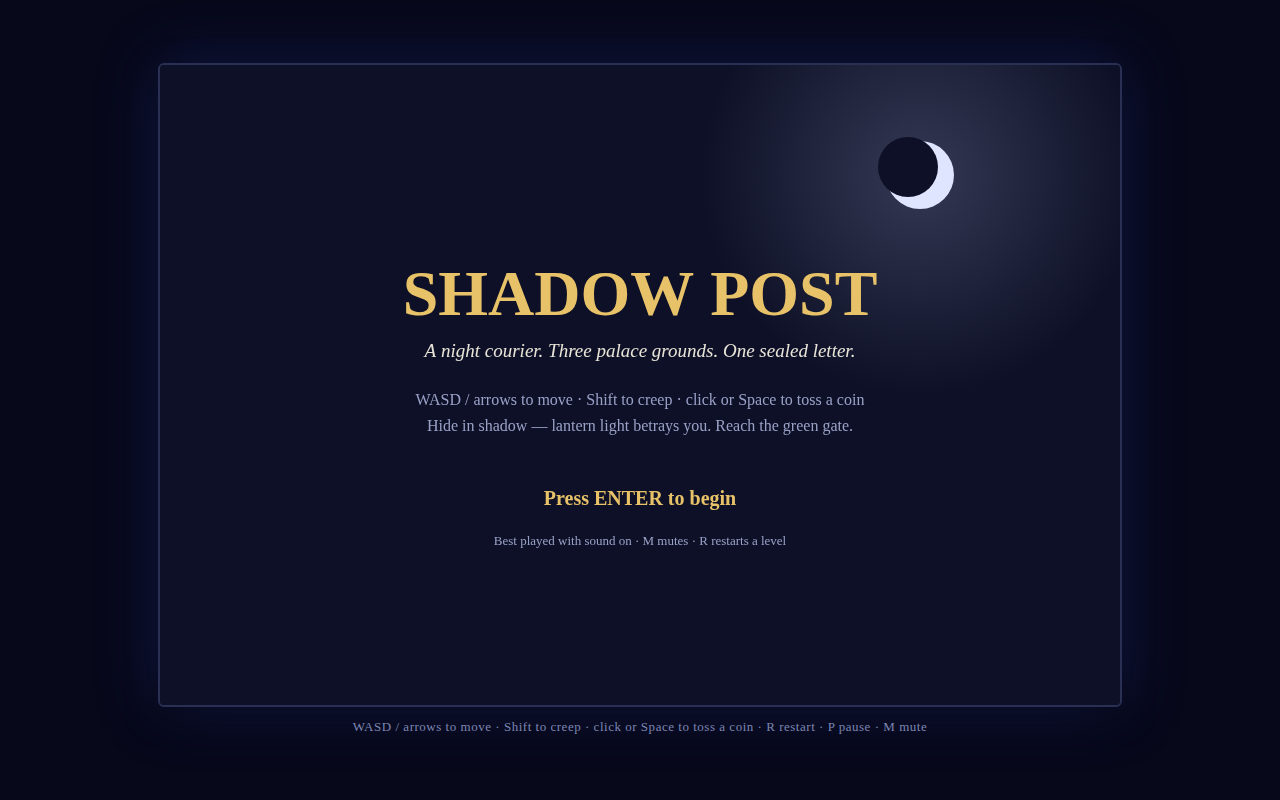
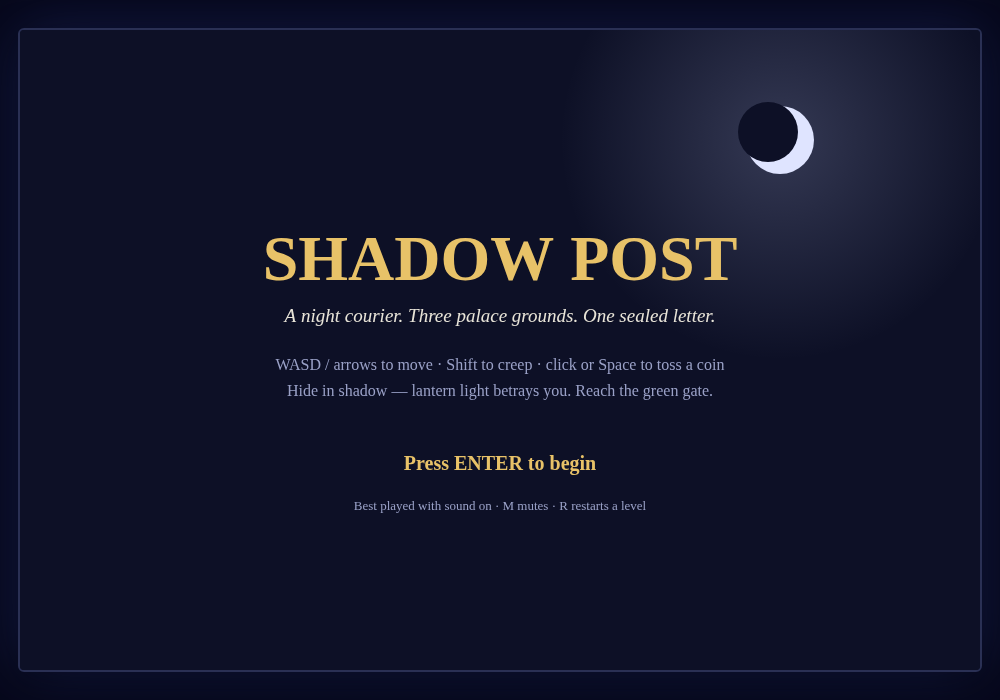
Gemini critique fixes: hedge auto-tiling, brighter cones, visible gate, aimed alert cones, coin ripple, tighter screenshot framing

diff --git a/game/src/render.js b/game/src/render.js
@@ -55,6 +55,11 @@ export class Renderer {
 
   drawBlockers(level) {
     const { ctx } = this;
+    // Hedge tiles connect into continuous strips: remember which tiles
+    // are hedges so only exposed edges get a border.
+    const hedgeAt = new Set(
+      level.blockers.filter((b) => b.kind === 'hedge').map((b) => `${b.x / TILE},${b.y / TILE}`),
+    );
     for (const b of level.blockers) {
       if (b.kind === 'wall') {
         ctx.fillStyle = PALETTE.wall;
@@ -64,18 +69,35 @@ export class Renderer {
         ctx.strokeStyle = 'rgba(10, 12, 30, 0.6)';
         ctx.strokeRect(b.x + 0.5, b.y + 0.5, b.w - 1, b.h - 1);
       } else if (b.kind === 'hedge') {
+        // One continuous bush: full tile, no gaps between neighbours,
+        // leaf clusters seeded by the tile so the pattern never repeats
+        // identically from tile to tile.
         ctx.fillStyle = PALETTE.hedge;
-        roundRect(ctx, b.x + 2, b.y + 2, b.w - 4, b.h - 4, 9);
-        ctx.fill();
+        ctx.fillRect(b.x, b.y, b.w, b.h);
+        const tx = b.x / TILE;
+        const ty = b.y / TILE;
+        const seed = (tx * 31 + ty * 17) % 7;
         ctx.fillStyle = PALETTE.hedgeTop;
-        // Leafy dots so a hedge reads as a hedge, not a wall.
-        for (let i = 0; i < 5; i++) {
-          const lx = b.x + 7 + ((i * 7) % 26);
-          const ly = b.y + 8 + ((i * 11) % 24);
+        for (let i = 0; i < 6; i++) {
+          const lx = b.x + 6 + ((i * 11 + seed * 5) % 28);
+          const ly = b.y + 6 + ((i * 7 + seed * 3) % 28);
           ctx.beginPath();
-          ctx.arc(lx, ly, 3.2, 0, Math.PI * 2);
+          ctx.arc(lx, ly, 3.4 + ((i + seed) % 3), 0, Math.PI * 2);
           ctx.fill();
         }
+        ctx.fillStyle = 'rgba(0, 0, 0, 0.25)';
+        ctx.beginPath();
+        ctx.arc(b.x + 10 + seed * 3, b.y + 26, 4, 0, Math.PI * 2);
+        ctx.fill();
+        // Border only where a neighbour is not a hedge.
+        ctx.strokeStyle = 'rgba(8, 20, 12, 0.8)';
+        ctx.lineWidth = 1.5;
+        ctx.beginPath();
+        if (!hedgeAt.has(`${tx},${ty - 1}`)) { ctx.moveTo(b.x, b.y + 0.75); ctx.lineTo(b.x + b.w, b.y + 0.75); }
+        if (!hedgeAt.has(`${tx},${ty + 1}`)) { ctx.moveTo(b.x, b.y + b.h - 0.75); ctx.lineTo(b.x + b.w, b.y + b.h - 0.75); }
+        if (!hedgeAt.has(`${tx - 1},${ty}`)) { ctx.moveTo(b.x + 0.75, b.y); ctx.lineTo(b.x + 0.75, b.y + b.h); }
+        if (!hedgeAt.has(`${tx + 1},${ty}`)) { ctx.moveTo(b.x + b.w - 0.75, b.y); ctx.lineTo(b.x + b.w - 0.75, b.y + b.h); }
+        ctx.stroke();
       } else if (b.kind === 'crate') {
         ctx.fillStyle = PALETTE.crate;
         ctx.fillRect(b.x + 3, b.y + 3, b.w - 6, b.h - 6);
@@ -118,21 +140,42 @@ export class Renderer {
 
   drawExit(exit, pulse) {
     const { ctx } = this;
-    const glow = 46 + Math.sin(pulse * 2.4) * 6;
-    const g = ctx.createRadialGradient(exit.x, exit.y, 4, exit.x, exit.y, glow + 30);
-    g.addColorStop(0, 'rgba(127, 224, 168, 0.40)');
+    const glow = 52 + Math.sin(pulse * 2.4) * 6;
+    // Emerald light spill onto the tiles in front of the gate, so the
+    // goal reads as a beacon from across the level.
+    const g = ctx.createRadialGradient(exit.x, exit.y, 4, exit.x, exit.y, glow + 46);
+    g.addColorStop(0, 'rgba(127, 224, 168, 0.42)');
+    g.addColorStop(0.5, 'rgba(127, 224, 168, 0.14)');
     g.addColorStop(1, 'rgba(127, 224, 168, 0)');
     ctx.fillStyle = g;
-    ctx.fillRect(exit.x - glow - 30, exit.y - glow - 30, (glow + 30) * 2, (glow + 30) * 2);
-    // A green gate arch with a lit doorway.
-    ctx.fillStyle = '#1d3a28';
-    ctx.fillRect(exit.x - 15, exit.y - 18, 30, 36);
-    ctx.fillStyle = PALETTE.exitGlow;
-    ctx.fillRect(exit.x - 9, exit.y - 12, 18, 30);
-    ctx.fillStyle = '#0d1026';
-    ctx.font = 'bold 11px Georgia, serif';
+    ctx.fillRect(exit.x - glow - 46, exit.y - glow - 46, (glow + 46) * 2, (glow + 46) * 2);
+    // A palace archway: stone posts, a rounded top, a bright lit doorway.
+    ctx.fillStyle = '#31406b';
+    ctx.fillRect(exit.x - 18, exit.y - 20, 7, 40);
+    ctx.fillRect(exit.x + 11, exit.y - 20, 7, 40);
+    ctx.fillStyle = '#3a4d80';
+    ctx.beginPath();
+    ctx.arc(exit.x, exit.y - 19, 18, Math.PI, 0);
+    ctx.fill();
+    ctx.fillStyle = '#9ff0c0';
+    ctx.fillRect(exit.x - 11, exit.y - 16, 22, 36);
+    ctx.fillStyle = '#d8ffe6';
+    ctx.fillRect(exit.x - 7, exit.y - 12, 14, 32);
+    ctx.fillStyle = '#12351f';
+    ctx.beginPath();
+    ctx.moveTo(exit.x - 11, exit.y + 4);
+    ctx.lineTo(exit.x, exit.y - 12);
+    ctx.lineTo(exit.x + 11, exit.y + 4);
+    ctx.lineTo(exit.x, exit.y + 20);
+    ctx.closePath();
+    ctx.fill();
+    ctx.font = 'bold 12px Georgia, serif';
     ctx.textAlign = 'center';
-    ctx.fillText('GATE', exit.x, exit.y + 30);
+    ctx.lineWidth = 3;
+    ctx.strokeStyle = 'rgba(0, 20, 8, 0.9)';
+    ctx.strokeText('GATE', exit.x, exit.y + 36);
+    ctx.fillStyle = '#eafff0';
+    ctx.fillText('GATE', exit.x, exit.y + 36);
   }
 
   drawCones(guards, blockers) {
@@ -173,30 +216,54 @@ export class Renderer {
 
   drawPlayer(player) {
     const { ctx } = this;
+    const fx = Math.cos(player.facing);
+    const fy = Math.sin(player.facing);
     // Soft shadow under the courier.
     ctx.fillStyle = 'rgba(0, 0, 0, 0.45)';
     ctx.beginPath();
     ctx.ellipse(player.x, player.y + 10, 13, 5, 0, 0, Math.PI * 2);
     ctx.fill();
-    // Hooded cloak: a circle with a darker hood and a facing tick.
+    // Trailing scarf: two fluttering ribbons behind the movement direction.
+    ctx.strokeStyle = '#7a5a8a';
+    ctx.lineWidth = 3;
+    ctx.beginPath();
+    ctx.moveTo(player.x - fx * 8, player.y - fy * 8);
+    ctx.quadraticCurveTo(
+      player.x - fx * 20, player.y - fy * 20 + 4,
+      player.x - fx * 24, player.y - fy * 24 - 3,
+    );
+    ctx.moveTo(player.x - fx * 8, player.y - fy * 8);
+    ctx.quadraticCurveTo(
+      player.x - fx * 18, player.y - fy * 18 - 5,
+      player.x - fx * 22, player.y - fy * 22 + 4,
+    );
+    ctx.stroke();
+    // Hooded cloak: a dark hood ring around a pale face, with shoulders
+    // so the courier reads as a person, not an orb.
     ctx.fillStyle = PALETTE.playerHood;
     ctx.beginPath();
     ctx.arc(player.x, player.y, player.r, 0, Math.PI * 2);
     ctx.fill();
+    // Shoulder pads left and right of the facing direction.
+    ctx.fillStyle = '#3a3157';
+    ctx.beginPath();
+    ctx.arc(player.x - fy * 9, player.y + fx * 9, 5, 0, Math.PI * 2);
+    ctx.arc(player.x + fy * 9, player.y - fx * 9, 5, 0, Math.PI * 2);
+    ctx.fill();
     ctx.fillStyle = PALETTE.player;
     ctx.beginPath();
-    ctx.arc(player.x, player.y, player.r - 4.5, 0, Math.PI * 2);
+    ctx.arc(player.x, player.y, player.r - 5.5, 0, Math.PI * 2);
     ctx.fill();
-    ctx.strokeStyle = PALETTE.playerHood;
-    ctx.lineWidth = 2.5;
+    // Hood point and a facing tick so the direction is readable.
+    ctx.fillStyle = PALETTE.playerHood;
     ctx.beginPath();
-    ctx.moveTo(player.x, player.y);
-    ctx.lineTo(
-      player.x + Math.cos(player.facing) * (player.r + 3),
-      player.y + Math.sin(player.facing) * (player.r + 3),
-    );
-    ctx.stroke();
-    // The sealed letter: a tiny cream square at the courier's side.
+    ctx.moveTo(player.x + fx * 6, player.y + fy * 6);
+    ctx.lineTo(player.x + fx * (player.r + 4), player.y + fy * (player.r + 4));
+    ctx.lineTo(player.x + fx * 2 - fy * 3, player.y + fy * 2 + fx * 3);
+    ctx.closePath();
+    ctx.fill();
+    // The sealed letter: a tiny cream square with a red seal, carried
+    // at the courier's side.
     ctx.fillStyle = '#f4ead2';
     ctx.fillRect(player.x + 7, player.y + 5, 6, 8);
     ctx.strokeStyle = '#a33';
@@ -206,11 +273,28 @@ export class Renderer {
 
   drawGuard(guard) {
     const { ctx } = this;
+    const fx = Math.cos(guard.angle);
+    const fy = Math.sin(guard.angle);
     ctx.fillStyle = 'rgba(0, 0, 0, 0.45)';
     ctx.beginPath();
     ctx.ellipse(guard.x, guard.y + 11, 14, 5.5, 0, 0, Math.PI * 2);
     ctx.fill();
-    // Uniformed sentry: gold body, dark belt, helmet brim, direction tick.
+    // A handheld spear, held forward: the guard's orientation is readable
+    // even where the cone is clipped away by a wall.
+    ctx.strokeStyle = '#6a5636';
+    ctx.lineWidth = 2.5;
+    ctx.beginPath();
+    ctx.moveTo(guard.x - fx * 6, guard.y - fy * 6);
+    ctx.lineTo(guard.x + fx * (guard.r + 12), guard.y + fy * (guard.r + 12));
+    ctx.stroke();
+    ctx.fillStyle = '#c8b06a';
+    ctx.beginPath();
+    ctx.moveTo(guard.x + fx * (guard.r + 18), guard.y + fy * (guard.r + 18));
+    ctx.lineTo(guard.x + fx * (guard.r + 8) - fy * 3.5, guard.y + fy * (guard.r + 8) + fx * 3.5);
+    ctx.lineTo(guard.x + fx * (guard.r + 8) + fy * 3.5, guard.y + fy * (guard.r + 8) - fx * 3.5);
+    ctx.closePath();
+    ctx.fill();
+    // Uniformed sentry: gold body, dark belt, shoulder bars, helmet brim.
     ctx.fillStyle = guard.state === 'chase' ? '#d84a3a' : PALETTE.guard;
     ctx.beginPath();
     ctx.arc(guard.x, guard.y, guard.r, 0, Math.PI * 2);
@@ -219,25 +303,17 @@ export class Renderer {
     ctx.beginPath();
     ctx.arc(guard.x, guard.y, guard.r - 5, 0, Math.PI * 2);
     ctx.fill();
+    // Shoulder bars across the facing direction.
     ctx.strokeStyle = '#2c2410';
-    ctx.lineWidth = 2;
+    ctx.lineWidth = 3;
     ctx.beginPath();
-    ctx.moveTo(guard.x, guard.y);
-    ctx.lineTo(
-      guard.x + Math.cos(guard.angle) * (guard.r + 6),
-      guard.y + Math.sin(guard.angle) * (guard.r + 6),
-    );
+    ctx.moveTo(guard.x - fy * 11, guard.y + fx * 11);
+    ctx.lineTo(guard.x + fy * 11, guard.y - fx * 11);
     ctx.stroke();
     // Helmet brim.
     ctx.fillStyle = '#5a4a22';
     ctx.beginPath();
-    ctx.arc(
-      guard.x + Math.cos(guard.angle) * 5,
-      guard.y + Math.sin(guard.angle) * 5,
-      5,
-      0,
-      Math.PI * 2,
-    );
+    ctx.arc(guard.x + fx * 5, guard.y + fy * 5, 5, 0, Math.PI * 2);
     ctx.fill();
     // Detection meter ring above the guard's head.
     if (guard.detect > 0.03) {

diff --git a/game/src/main.js b/game/src/main.js
@@ -257,6 +257,10 @@ const game = new Game();
 function applyShot(name) {
   game.frozen = true;
   renderer.time = 0.5236; // blink at full alpha, lanterns mid-pulse
+  // Screenshots frame the game only: the page's control hint is not
+  // part of the game and would only eat frame space.
+  const hint = document.getElementById('hint');
+  if (hint) hint.style.display = 'none';
   if (name === 'title') {
     game.screen = 'title';
     return;
@@ -281,8 +285,9 @@ function applyShot(name) {
     game.elapsed = 34;
     if (name === 'garden') {
       // Courier mid-crossing between two cones, lantern pool, gate ahead.
+      // The courier stands on open path (row 9), never on a hedge tile.
       game.player.x = 12.5 * TILE;
-      game.player.y = 8.5 * TILE;
+      game.player.y = 9.5 * TILE;
       game.player.facing = 0;
       game.guards[0].x = 8.5 * TILE;
       game.guards[0].y = 7.5 * TILE;
@@ -295,19 +300,25 @@ function applyShot(name) {
       game.guards[2].angle = Math.PI / 2;
     } else {
       // A guard has the courier: cone red, eye full, "!" overhead.
+      // The chasing guard's cone points AT the courier (not past them),
+      // the suspicious guard stands on open ground with a visible cone
+      // aimed at a tossed coin, mid-ripple — the coin mechanic in play.
+      game.elapsed = 41;
+      game.coins = 2;
       game.player.x = 12.5 * TILE;
       game.player.y = 9.5 * TILE;
       game.player.facing = Math.PI;
       game.player.inLight = true;
+      game.ripples.push({ x: 15.5 * TILE, y: 10.5 * TILE, age: 0.45, life: 1.1 });
       game.guards[0].x = 9.5 * TILE;
       game.guards[0].y = 7.5 * TILE;
-      game.guards[0].angle = Math.PI / 2;
+      game.guards[0].angle = 0.59; // toward the courier at (12.5, 9.5)
       game.guards[0].state = 'chase';
       game.guards[0].detect = 1;
       game.guards[0].lastSeen = { x: game.player.x, y: game.player.y };
       game.guards[1].x = 18.5 * TILE;
-      game.guards[1].y = 13.5 * TILE;
-      game.guards[1].angle = -Math.PI / 2;
+      game.guards[1].y = 9.5 * TILE;
+      game.guards[1].angle = 2.82; // toward the tossed coin at (15.5, 10.5)
       game.guards[1].state = 'suspicious';
       game.guards[1].detect = 0.7;
       game.guards[2].x = 12.5 * TILE;

diff --git a/game/src/config.js b/game/src/config.js
@@ -56,7 +56,7 @@ export const PALETTE = {
   playerHood: '#4a3f6b',
   guard: '#c8b06a',
   guardDark: '#8a7440',
-  coneCalm: 'rgba(255, 190, 90, 0.20)',
+  coneCalm: 'rgba(255, 205, 115, 0.28)',
   coneWary: 'rgba(255, 140, 60, 0.32)',
   coneAlert: 'rgba(255, 70, 60, 0.38)',
   text: '#e8e4d8',
